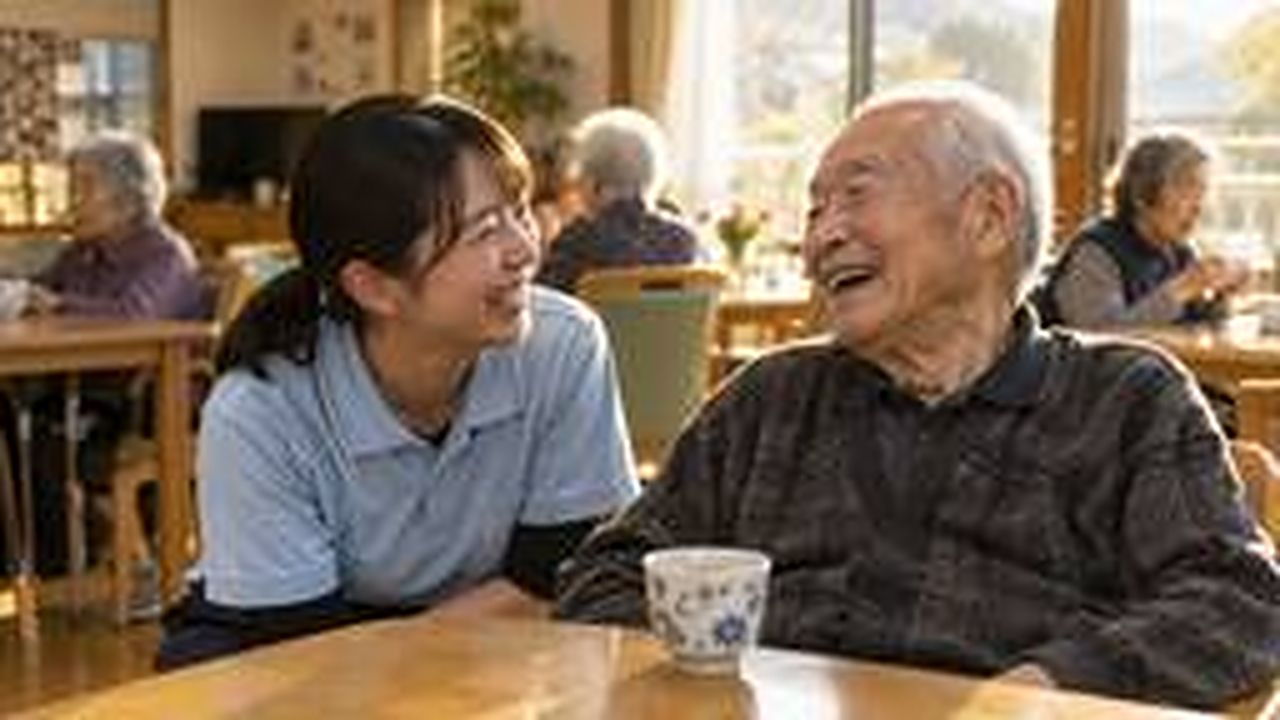
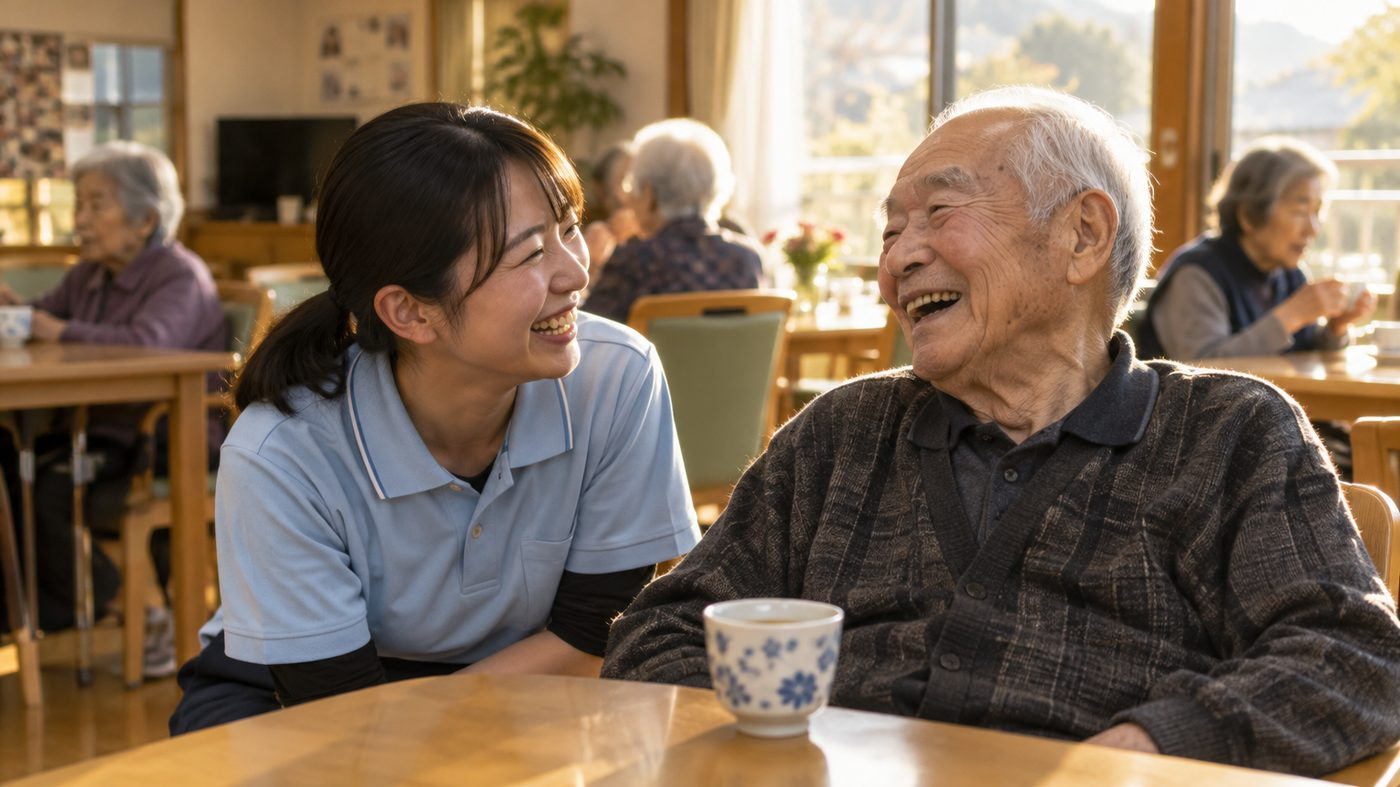
Use full-resolution photos; remove lead copy from feed cards
Claude-Session: https://claude.ai/code/session_01MivGLrktcrwpXDoHBMrtga

diff --git a/site/index.html b/site/index.html
@@ -118,7 +118,6 @@ a{color:#1A1A1A}a:hover{color:#3A63F4}
                 </div>
               </div>
             </div>
-            <p style="margin: 0; font-size: 14px; line-height: 1.8; color: #3D3D3D">{{j.lead}}</p>
             <div style="display: flex; flex-direction: column; gap: 8px; background: #F6F5F1; border-radius: 16px; padding: 12px 14px">
               <sc-for list="{{j.bars}}" as="b" hint-placeholder-count="2">
                 <div style="display: flex; align-items: center; gap: 10px; font-size: 12px; font-weight: 700">
@@ -210,10 +209,10 @@ class Component extends DCLogic {
     const tabs = ['おすすめ', '新着', '給与順'].map((label, i) => ({ label, pick: () => this.setState({ tab: i }), bg: this.state.tab === i ? '#1A1A1A' : 'transparent', fg: this.state.tab === i ? '#FFFFFF' : '#1A1A1A' }));
         const workTypes = [['正社員', 128], ['パート', 64]].map((w, i) => ({ label: w[0], n: w[1], on: !!this.state.work[i], toggle: () => this.setState({ work: Object.assign({}, this.state.work, { [i]: !this.state.work[i] }) }) }));
     const raw = [
-      { id: 1, type: '正社員', cat: '病院', title: '「聞きやすさ」で選ばれる内科病棟で、一緒に働く看護師を募集', org: 'みなと中央病院', area: '東京都港区', payLabel: '月収', pay: '276,500円〜', payNote: '夜勤4回を含む', img: 'images/station.jpg', photo: '申し送り中のナースステーション（師長とスタッフ）', lead: '日勤の受け持ちは7人。わからないことを聞いても嫌な顔をされない。そんな病棟をつくってきた師長が、まずは見学からお話しします。', pts: 7, ot: 8, facts: ['教育担当つき', '2交代', '有休消化 9割'], likes: 128, posted: '2日前' },
-      { id: 2, type: '正社員', cat: '回復期', title: '患者さんの「帰る」を支える回復期リハビリ病院で、日勤のみも可', org: 'さくら台リハビリ病院', area: '神奈川県横浜市', payLabel: '月収', pay: '262,000円〜', payNote: '日勤のみの場合', img: 'images/rehab.jpg', photo: 'リハビリ室で患者さんと歩行練習をする看護師', lead: '急性期のスピードより、ひとりの患者さんと長く向き合いたい方へ。日勤のみ、託児所あり。病院から介護へ移った看護師も多い職場です。', pts: 9, ot: 5, facts: ['日勤のみOK', '託児所あり'], likes: 96, posted: '4日前' },
-      { id: 3, type: '正社員', cat: '介護施設', title: '病院から介護へ。看取りまで寄り添う特養で、看護師を募集', org: 'ひだまりの郷', area: '千葉県船橋市', payLabel: '月収', pay: '258,000円〜', payNote: '夜勤4回を含む', img: 'images/care.jpg', photo: '食堂で入居者と談笑するスタッフ（夕方の光）', lead: '病院から介護へ移った看護師が半数。医療処置は少なく、ひとりの入居者と長く向き合えます。見学だけでも歓迎です。', pts: 25, ot: 3, facts: ['夜勤 月4回', '有休消化 9割', '病院から転職多め'], likes: 54, posted: '1週間前' },
-      { id: 4, type: 'パート', cat: 'クリニック', title: '週3日から。子育て中の看護師が半分を占める外来で働く', org: '[クリニック名]', area: '東京都世田谷区', payLabel: '時給', pay: '1,900円〜', payNote: '週3日・16時まで', img: 'images/mentor.jpg', photo: '外来の受付前、スタッフ3名の集合写真', lead: '16時までの勤務、急なお休みはチームでカバー。働く人の声で一番多かったのは「お互いさま」でした。', pts: 0, ot: 0, facts: ['週3日〜', '16時まで'], likes: 73, posted: '1週間前' }
+      { id: 1, type: '正社員', cat: '病院', title: '「聞きやすさ」で選ばれる内科病棟で、一緒に働く看護師を募集', org: 'みなと中央病院', area: '東京都港区', payLabel: '月収', pay: '276,500円〜', payNote: '夜勤4回を含む', img: 'images/station.jpg', photo: '申し送り中のナースステーション（師長とスタッフ）', pts: 7, ot: 8, facts: ['教育担当つき', '2交代', '有休消化 9割'], likes: 128, posted: '2日前' },
+      { id: 2, type: '正社員', cat: '回復期', title: '患者さんの「帰る」を支える回復期リハビリ病院で、日勤のみも可', org: 'さくら台リハビリ病院', area: '神奈川県横浜市', payLabel: '月収', pay: '262,000円〜', payNote: '日勤のみの場合', img: 'images/rehab.jpg', photo: 'リハビリ室で患者さんと歩行練習をする看護師', pts: 9, ot: 5, facts: ['日勤のみOK', '託児所あり'], likes: 96, posted: '4日前' },
+      { id: 3, type: '正社員', cat: '介護施設', title: '病院から介護へ。看取りまで寄り添う特養で、看護師を募集', org: 'ひだまりの郷', area: '千葉県船橋市', payLabel: '月収', pay: '258,000円〜', payNote: '夜勤4回を含む', img: 'images/care.jpg', photo: '食堂で入居者と談笑するスタッフ（夕方の光）', pts: 25, ot: 3, facts: ['夜勤 月4回', '有休消化 9割', '病院から転職多め'], likes: 54, posted: '1週間前' },
+      { id: 4, type: 'パート', cat: 'クリニック', title: '週3日から。子育て中の看護師が半分を占める外来で働く', org: '[クリニック名]', area: '東京都世田谷区', payLabel: '時給', pay: '1,900円〜', payNote: '週3日・16時まで', img: 'images/mentor.jpg', photo: '外来の受付前、スタッフ3名の集合写真', pts: 0, ot: 0, facts: ['週3日〜', '16時まで'], likes: 73, posted: '1週間前' }
     ];
     const jobs = raw.map((j) => {
       const liked = !!this.state.liked[j.id];
